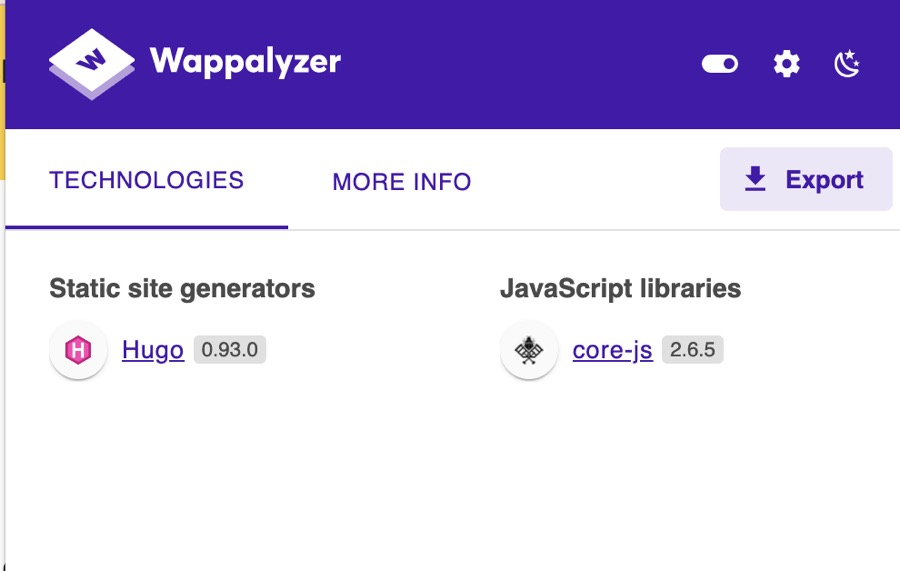
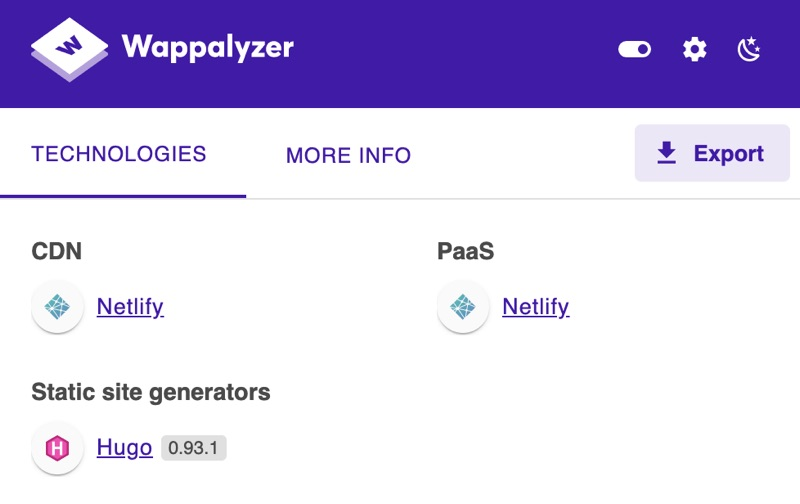
Update well-made Wappalyzer info

diff --git a/content/posts/well-made-hugo.md b/content/posts/well-made-hugo.md
@@ -94,6 +94,6 @@ The theme takes care of all the HTML page templates, but you can add a custom CS
 
 I'm using Hugo for well-made, for now. I love that I can work in Atom and Github, for easy coding and versioning. The DOM is human-made, rather than generate as in Webflow, so it makes more sense and it's generally smaller, leading to smaller files and better performance. I get complete control over the code, so I can do advanced accessibility and best practice stuff. My chosen theme had a bunch of stuff, like Pygments and dark mode, built in.
 
-Looking at Wappalyzer, I've only got two technologies on here: Hugo, and Core JS. This makes me happy. While it's not a certain sign of a well-made website, it's certainly a good one.
+Looking at Wappalyzer, I've only got two technologies on here: Hugo, and Netlify. This makes me happy. While it's not a certain sign of a well-made website, it's certainly a good one.
 
 ![Wappalyzer's analysis of well-made.uk](/img/well-made-wappalyzer.jpg)
